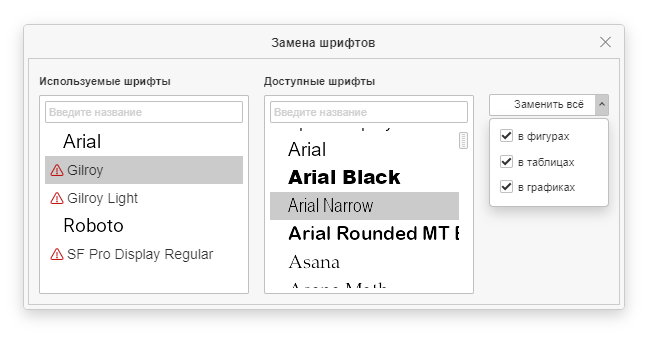
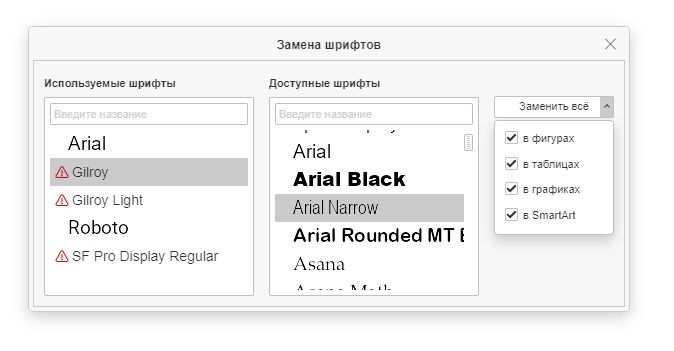
Added font change in Smart-Arts

diff --git a/scripts/code.js b/scripts/code.js
@@ -17,7 +17,7 @@
  */
 (function(window, undefined){
 
-	let state = { from: null, to: null, target: {shapes: true, tables: true, charts: true} };
+	let state = { from: null, to: null, target: {shapes: true, tables: true, charts: true, smartart: true} };
 
 	var THUMB_BASE_W = 300;
 	var THUMB_BASE_H = (parent && parent.Asc && parent.Asc.FONT_THUMBNAIL_HEIGHT) || 28;
@@ -706,6 +706,28 @@
 						}
 					}
 				}
+				// smart-arts
+				drawings = (slide && slide.GetAllDrawings && slide.GetAllDrawings()) || []
+				for(var d = 0; d < drawings.length; d++) {
+					if(drawings[d].Drawing && drawings[d].Drawing.arrGraphicObjects) {
+						var objects = drawings[d].Drawing.arrGraphicObjects || [];
+						for(var o = 0; o < objects.length; o++) {
+							if(objects[o].getDocContent) {
+								var content = objects[o].getDocContent();
+								if(content) {
+									for(var p = 0; p < content.GetElementsCount(); p++) {
+										var para = content.GetElement(p);
+										for(var r = 0; r < para.GetElementsCount(); r++) {
+											var run = para.GetElement(r);
+											add(run.CompiledPr.FontFamily.Name);
+										}
+									}
+								}
+							}
+						}
+					}
+				}
+				
 			}
 			var list = Object.keys(seen).sort();
 			return list.join("\n");
@@ -1005,6 +1027,31 @@
 											if(run.CompiledPr.FontFamily.Name == fromN)
 												run.ApplyFontFamily(toN),
 												run.GetText() != '' && changed++;
+										}
+									}
+								}
+							}
+						}
+					}
+				}
+				if(target.smartart || target.all){
+					// smart-arts
+					var smarts = (slide && slide.GetAllDrawings && slide.GetAllDrawings()) || []
+					for (var d = 0; d < smarts.length; d++) {
+						if(smarts[d].Drawing && smarts[d].Drawing.arrGraphicObjects) {
+							var objects = smarts[d].Drawing.arrGraphicObjects;
+							for(var o = 0; o < objects.length; o++) {
+								if(objects[o].getDocContent){
+									var content = objects[o].getDocContent();
+									if(content) {
+										for(var p = 0; p < content.GetElementsCount(); p++) {
+											var para = content.GetElement(p);
+											for(var r = 0; r < para.GetElementsCount(); r++) {
+												var run = para.GetElement(r);
+												if(run.CompiledPr.FontFamily.Name == fromN)
+													run.ApplyFontFamily(toN),
+													run.GetText() != '' && changed++;
+											}
 										}
 									}
 								}

diff --git a/index.html b/index.html
@@ -61,9 +61,10 @@
 					<button id="replaceBtn" type="button" class="btn-text-default" disabled="" style="min-width: auto; width: 120px">Заменить всё</button>
 					<button id="replaceOptions" type="button" class="btn btn-text-default dropdown-toggle" disabled="" tabindex="0" data-toggle="dropdown"><span class="caret"></span></button>
 					<ul id="replaceOptionsMenu" class="dropdown-menu" tabindex="0" role="menu">
-						<li><label><input type="checkbox" checked style="margin: 0 5px 0 0" class="custom-checkbox" name="relace" value="shapes">в фигурах</label></li>
-						<li><label><input type="checkbox" checked style="margin: 0 5px 0 0" class="custom-checkbox" name="relace" value="tables">в таблицах</label></li>
-						<li><label><input type="checkbox" checked style="margin: 0 5px 0 0" class="custom-checkbox" name="relace" value="charts">в графиках</label></li>
+						<li><label><input type="checkbox" checked style="margin: 0 5px 0 0" class="custom-checkbox" name="replace" value="shapes">в фигурах</label></li>
+						<li><label><input type="checkbox" checked style="margin: 0 5px 0 0" class="custom-checkbox" name="replace" value="tables">в таблицах</label></li>
+						<li><label><input type="checkbox" checked style="margin: 0 5px 0 0" class="custom-checkbox" name="replace" value="charts">в графиках</label></li>
+						<li><label><input type="checkbox" checked style="margin: 0 5px 0 0" class="custom-checkbox" name="replace" value="smartart">в SmartArt</label></li>
 					</ul>
 				</div>
 				<button id="cancelBtn" type="button" class="btn-text-default" style="display: block; min-width: 120px; margin-top: 8px;">Отменить</button>

diff --git a/resources/css/custom.css b/resources/css/custom.css
@@ -282,7 +282,6 @@ body {
     border: 0;
     height: 20px;
     border-radius: 0;
-    background: none;	
 }
 
 #replaceOptionsMenu {
